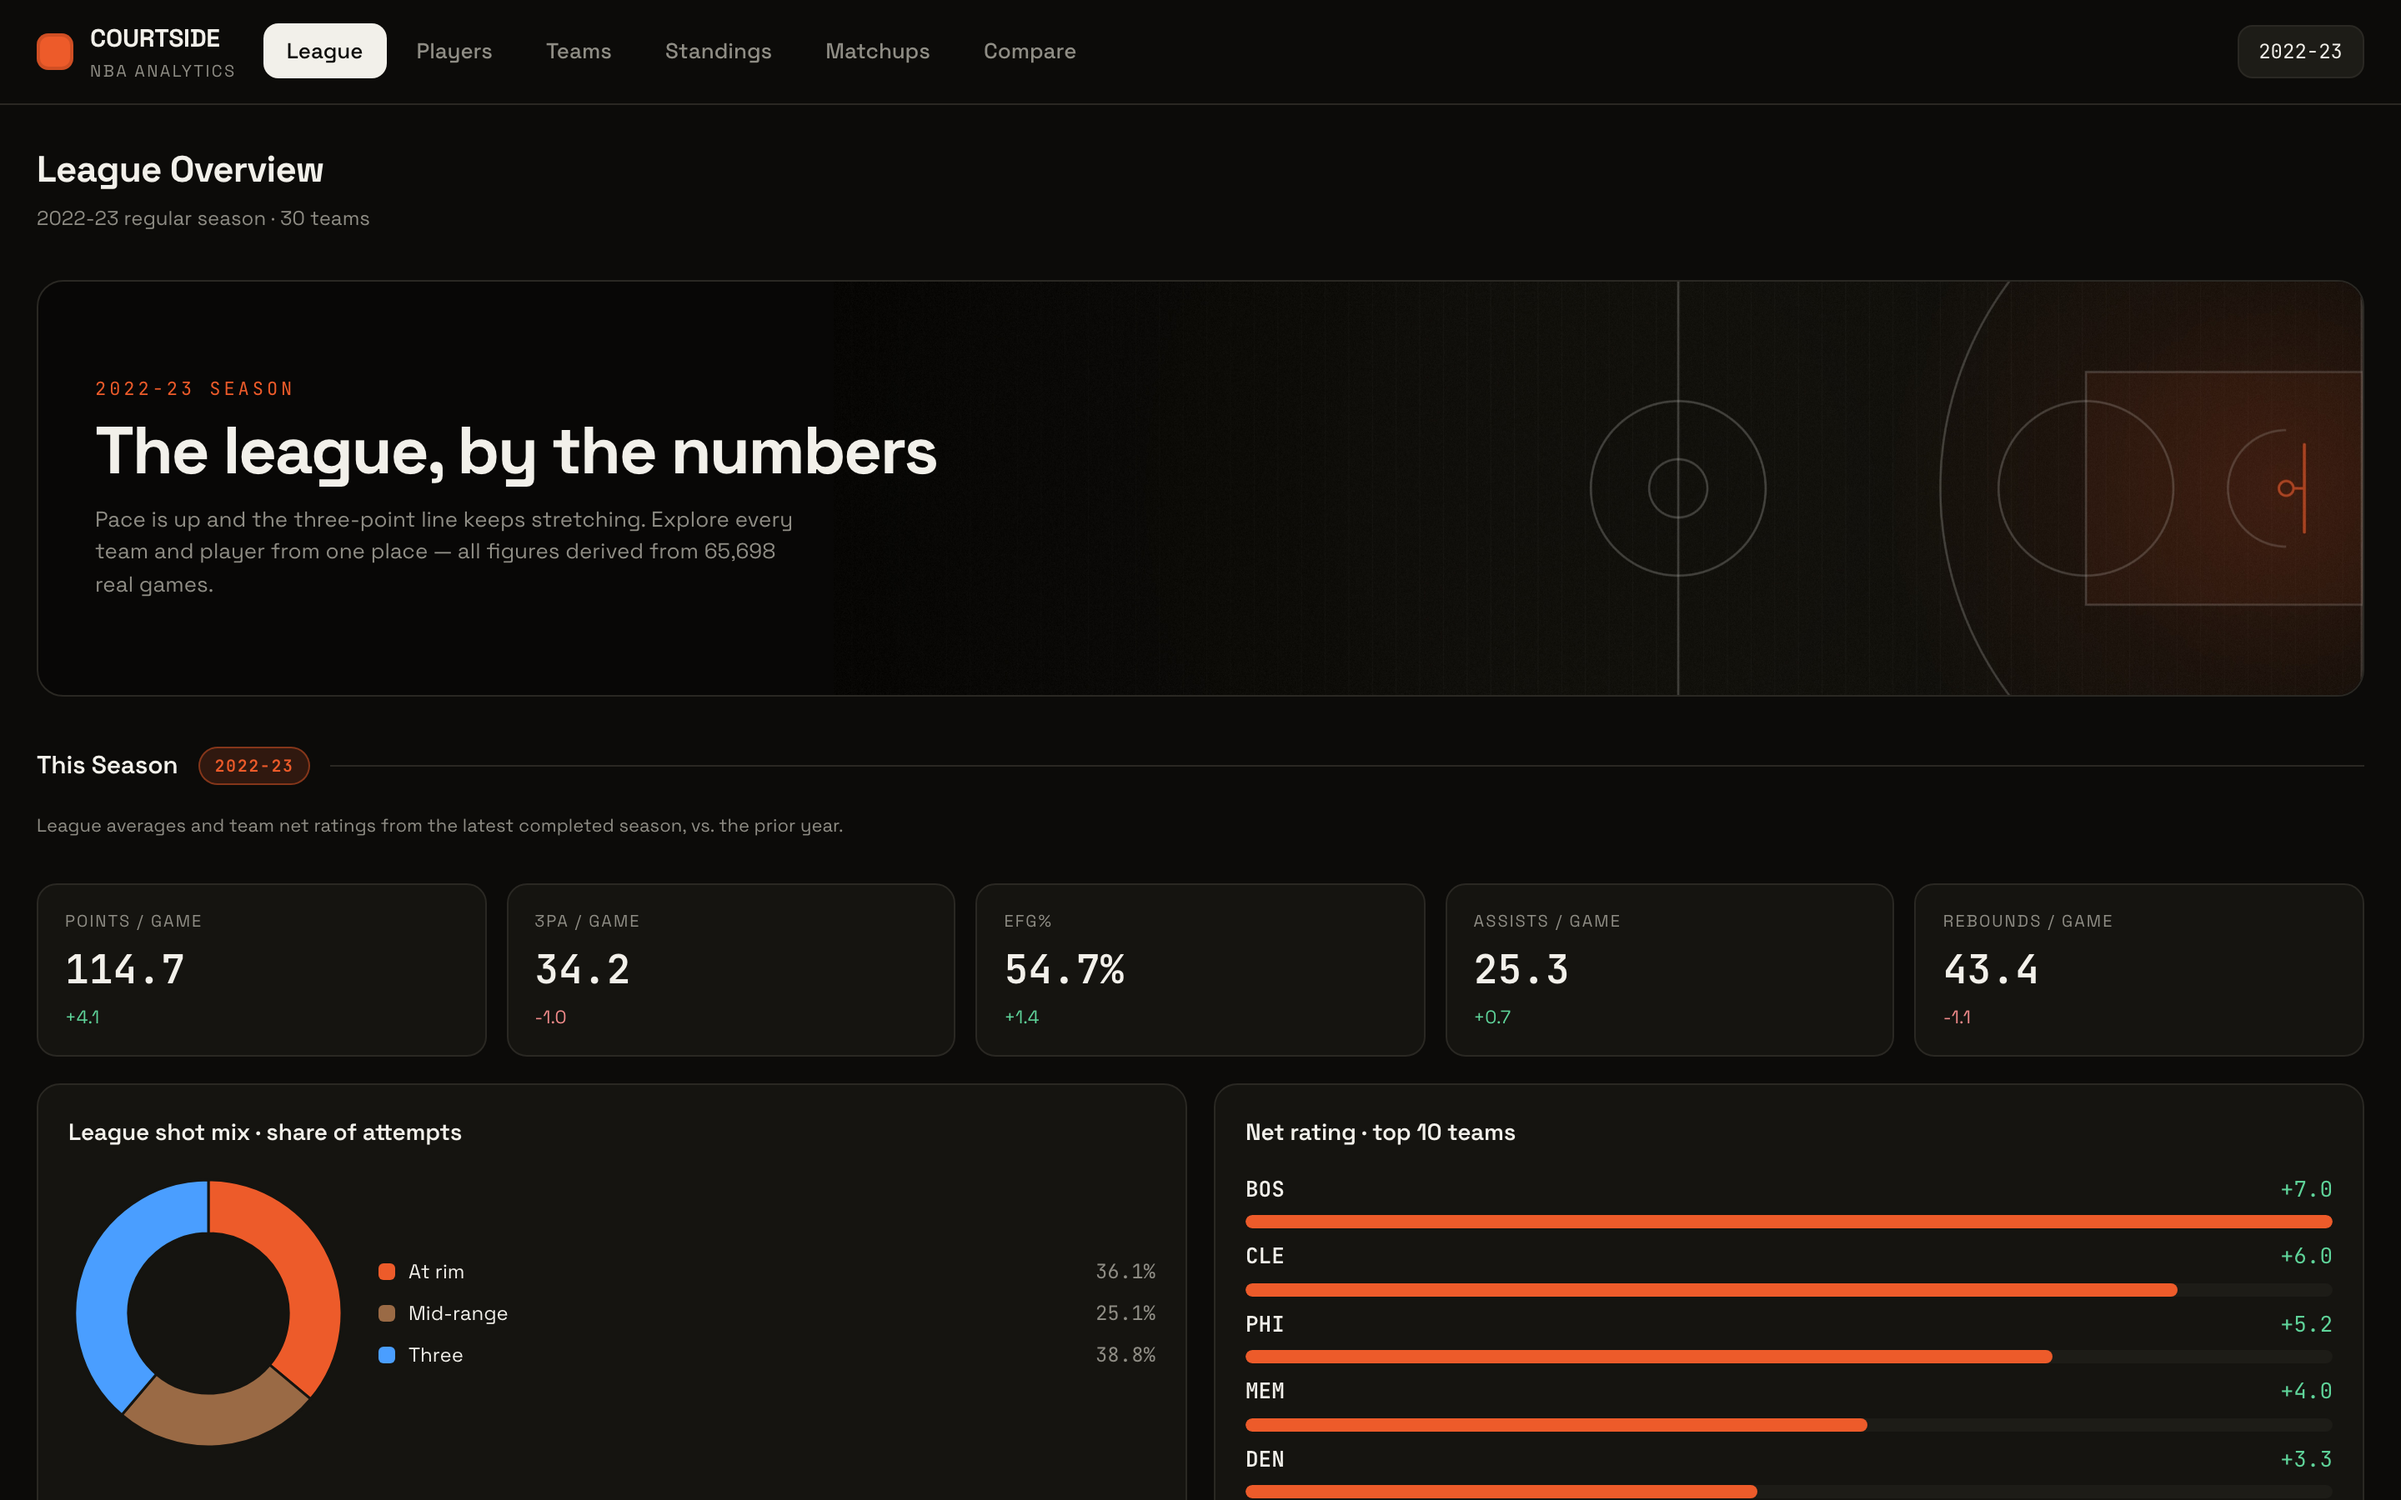
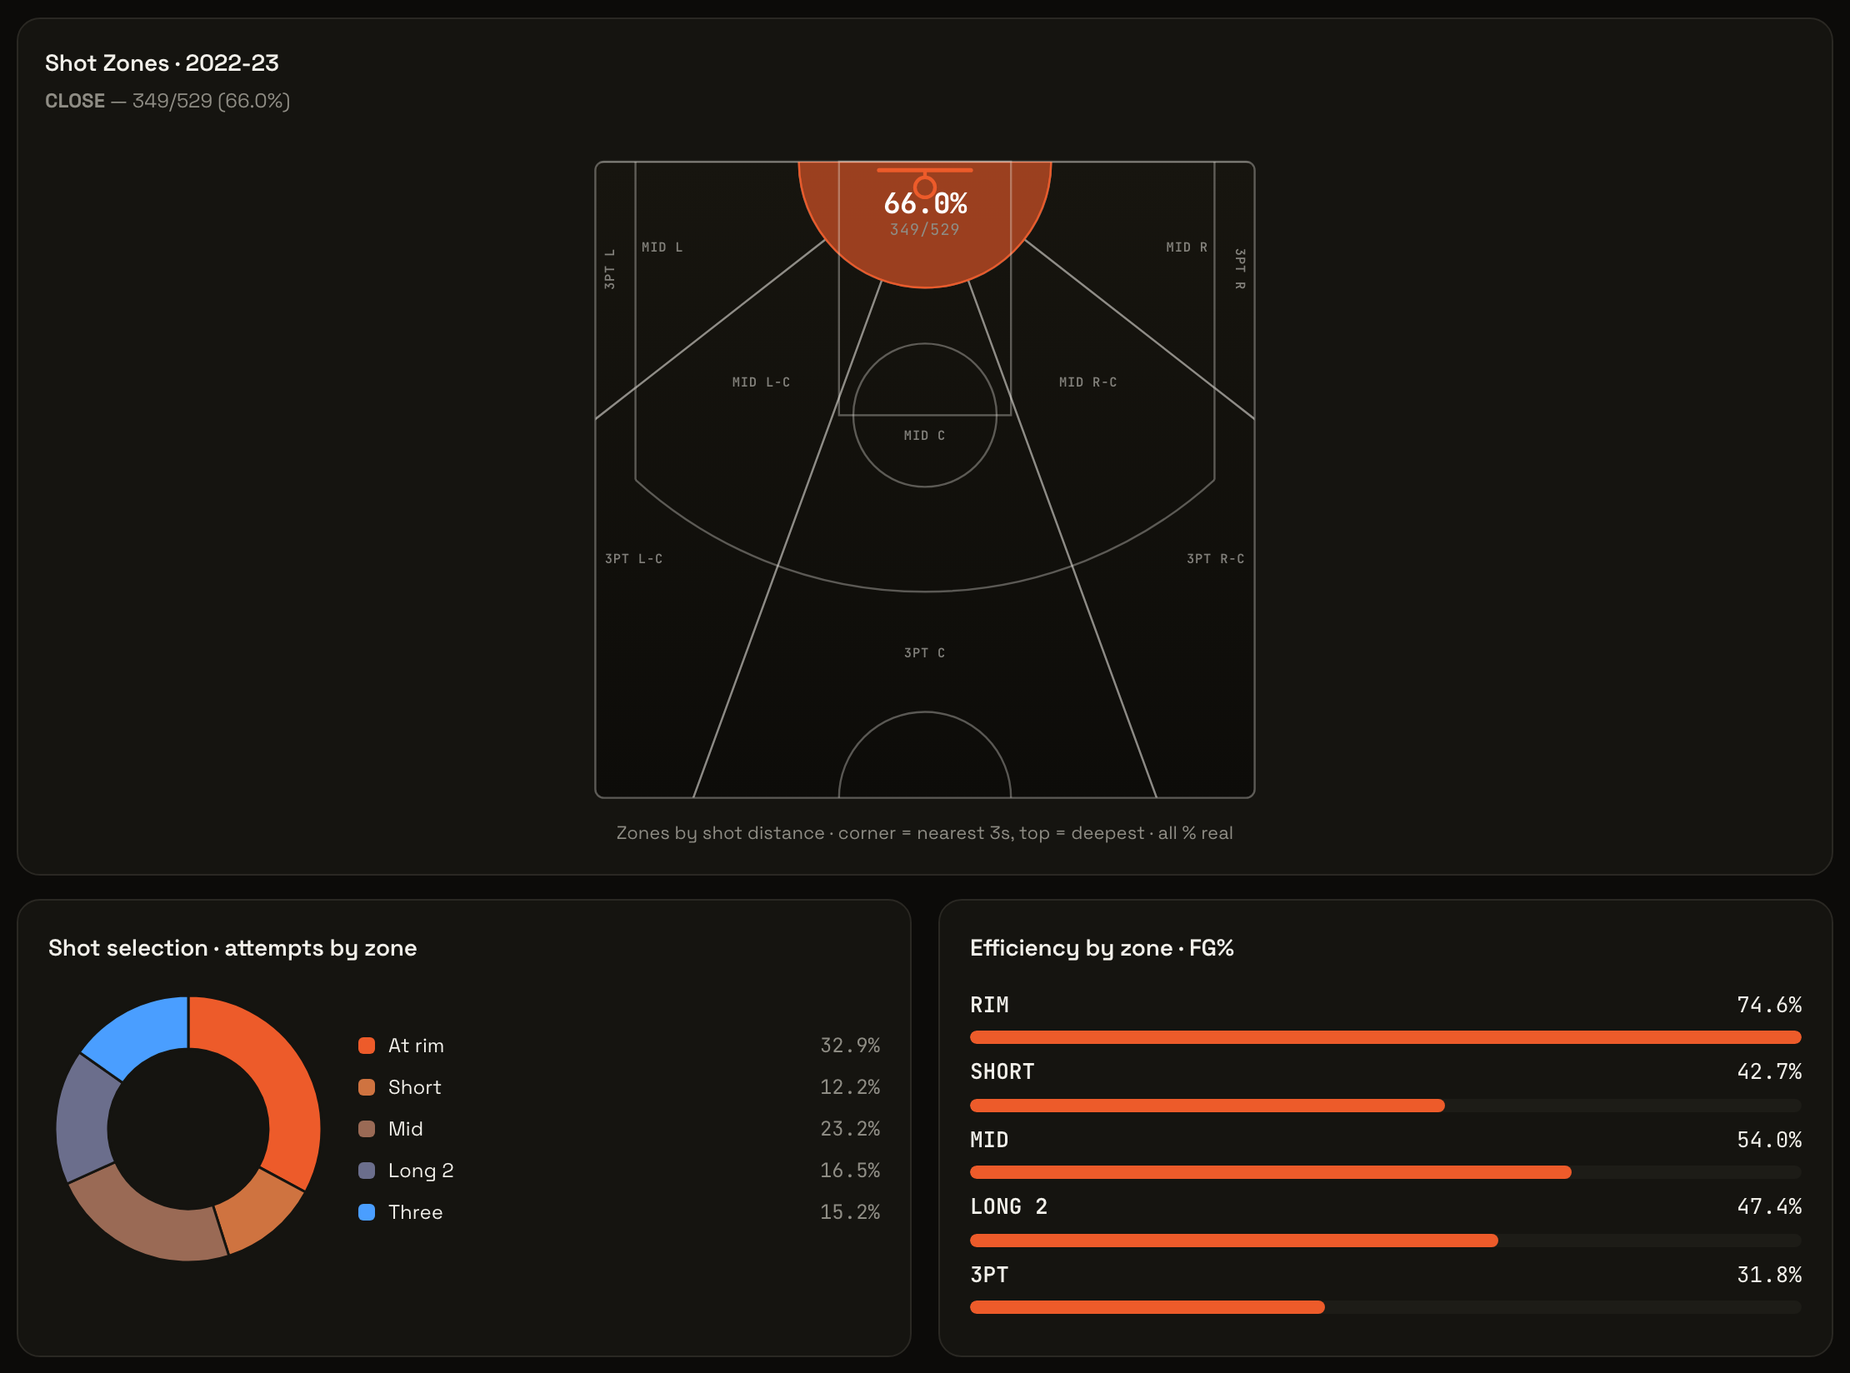
Showcase the signature visuals on project cards
- PepStats image now the Players movement heatmap (soccer pitch)
- COURTSIDE image now the Players shot-zone map with a live zone
  (66.0%, 349/529) plus shot-selection donut and FG% bars
- Add a caption under each screenshot describing the view

diff --git a/src/constants/index.js b/src/constants/index.js
@@ -46,6 +46,8 @@ const featuredProjects = [
     name: "Soccer PepStats",
     tagline: "End-to-end football analytics platform",
     image: "/images/pepstats.png",
+    caption:
+      "Players view: per-player movement heatmap built from 640 touch points, with zone occupation and match filters.",
     stack: "Python, pandas, DuckDB, FastAPI, React/TypeScript",
     live: "https://pep-stats-analytics.vercel.app",
     code: "https://github.com/Aniket2399/Pep_Stats_Analytics",
@@ -59,6 +61,8 @@ const featuredProjects = [
     name: "COURTSIDE",
     tagline: "End-to-end NBA analytics platform",
     image: "/images/courtside.png",
+    caption:
+      "Players view: shot zone map with real FG% per zone, plus shot selection and efficiency, all derived from play-by-play.",
     stack: "Python, DuckDB, dbt, React/TypeScript",
     live: "https://courtside-nba-analytics.vercel.app",
     code: "https://github.com/Aniket2399/nba-data-analytics",

diff --git a/src/sections/Projects.jsx b/src/sections/Projects.jsx
@@ -13,9 +13,12 @@ const Projects = () => {
           {featuredProjects.map((p) => (
             <article key={p.name} className="card ticked">
               <div className="grid md:grid-cols-2 gap-6 items-start">
-                <a href={p.live} target="_blank" rel="noreferrer">
-                  <img src={p.image} alt={`${p.name} dashboard`} className="shot" />
-                </a>
+                <div>
+                  <a href={p.live} target="_blank" rel="noreferrer">
+                    <img src={p.image} alt={`${p.name} dashboard`} className="shot" />
+                  </a>
+                  {p.caption && <p className="small muted mt-2">{p.caption}</p>}
+                </div>
 
                 <div>
                   <h3 className="text-[19px] font-bold">{p.name}</h3>
